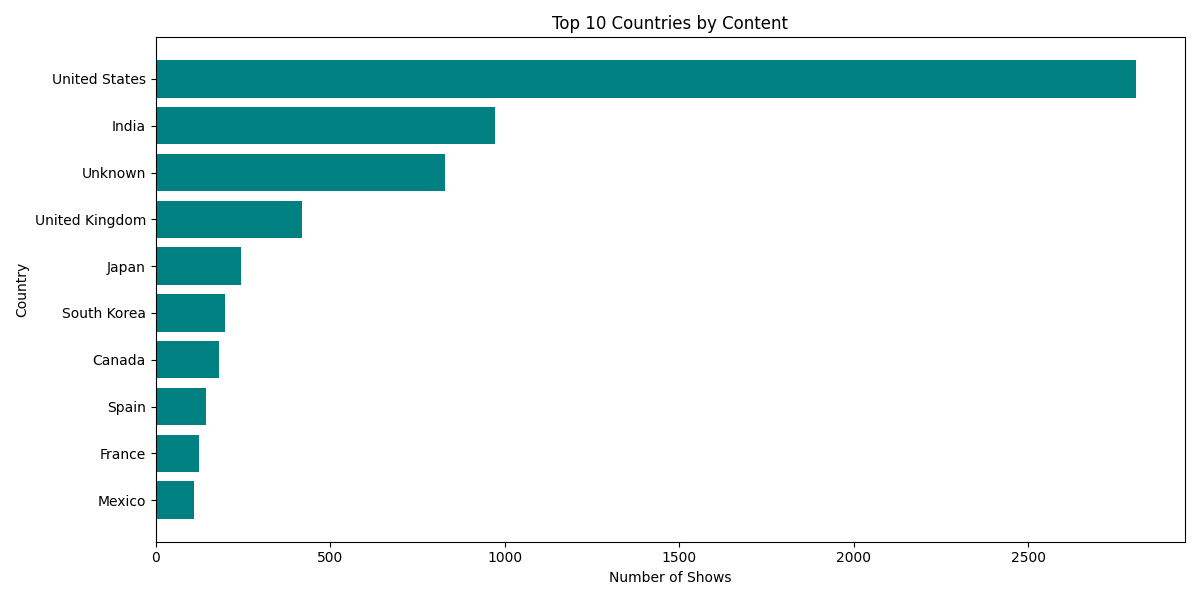
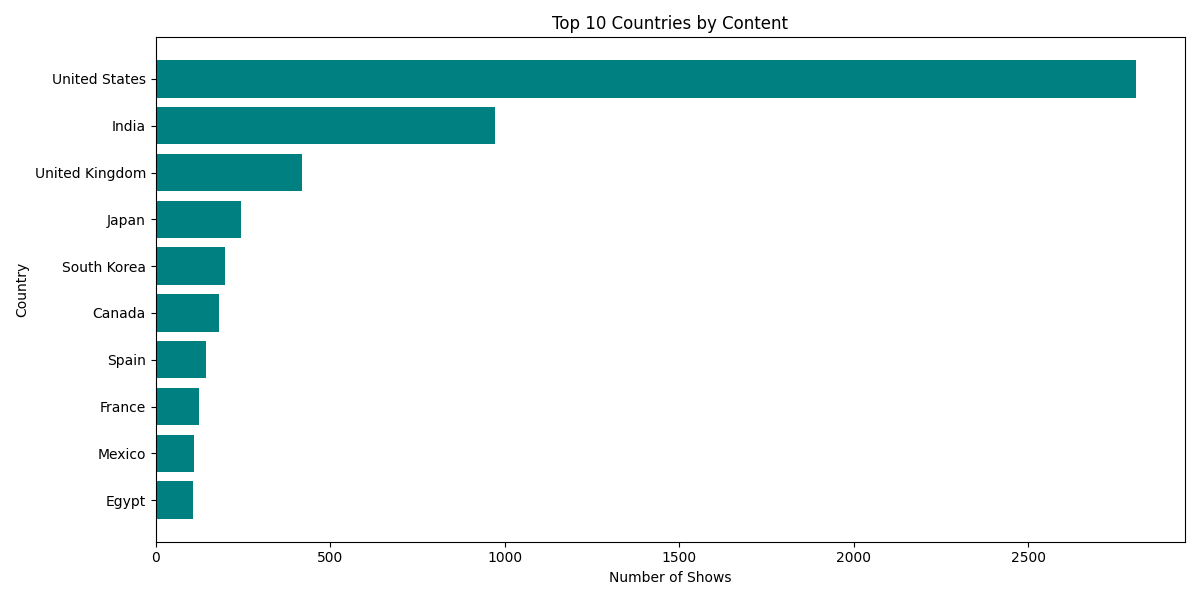
Add files via upload

diff --git a/Netflix_EDA_Project/src/data_clean_and_eda.py b/Netflix_EDA_Project/src/data_clean_and_eda.py
@@ -164,7 +164,11 @@ plt.show()
 # ==========================================
 # GRAPH 5: Top 10 Countries (Horizontal Bar)
 # ==========================================
-country_counts = df['country'].value_counts().head(10)
+all_countries = df['country'].value_counts()
+if 'Unknown' in all_countries.index:
+  all_countries = all_countries.drop('Unknown')
+  
+country_counts = all_countries.head(10)
 plt.figure(figsize = (12,6))
 plt.barh(country_counts.index, country_counts.values, color = 'teal')
 plt.xlabel('Number of Shows') # Label correct kiya
